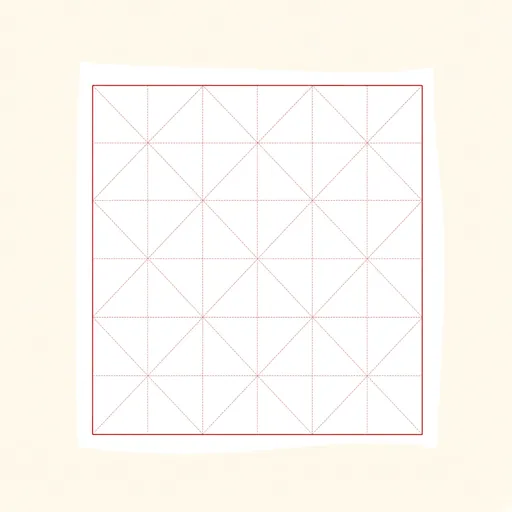
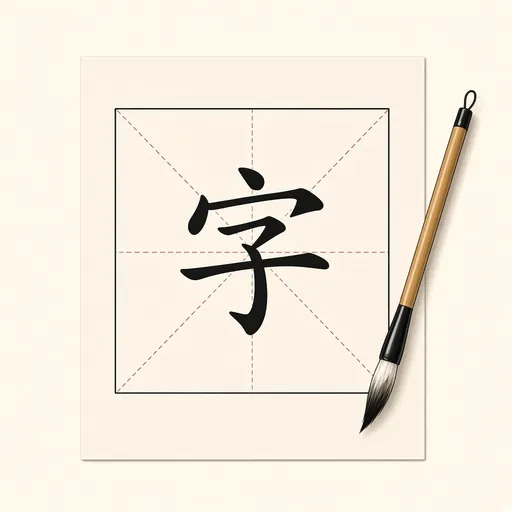
Book 0 art: 米 = rice bowl (lessons/book0/art/mi-rice.webp, L04/L09), new 字 grid picture; bump sw art cache v7

diff --git a/chinese-class-web/sw.js b/chinese-class-web/sw.js
@@ -5,8 +5,8 @@
    • เสียง mp3: แคชตอนเล่น (เก็บล่าสุด RT_MAX ไฟล์) + แพ็กที่ผู้ใช้กดดาวน์โหลด (lama-dl-v1 ไม่ลบเอง) · ตอบ Range เป็น 206 ให้ Safari
    • ข้อมูลลำดับขีด/hanzi-writer/รูป webp/ฟอนต์จีน: แคชเมื่อใช้ (cache-first)
    • activate: ลบแคช shell เวอร์ชันเก่า */
-/*shell*/const V='e03ff9a4f3',SHELL=["index.html","manifest.webmanifest","favicon.ico","sync-config.js?v=e03ff9a4f3","sync-merge.js?v=e03ff9a4f3","sync-supabase.js?v=e03ff9a4f3","sync.js?v=e03ff9a4f3","nozoom.js?v=e03ff9a4f3","fonts/fonts.css?v=e03ff9a4f3","style.css?v=e03ff9a4f3","style2.css?v=e03ff9a4f3","stroke.css?v=e03ff9a4f3","home.css?v=e03ff9a4f3","hub.css?v=e03ff9a4f3","align.css?v=e03ff9a4f3","nb-save.css?v=e03ff9a4f3","nb-page.css?v=e03ff9a4f3","nb-cover.css?v=e03ff9a4f3","piclearn.css?v=e03ff9a4f3","pinroom.css?v=e03ff9a4f3","rad.css?v=e03ff9a4f3","l1.css?v=e03ff9a4f3","book.css?v=e03ff9a4f3","bookquiz.css?v=e03ff9a4f3","fx2.css?v=e03ff9a4f3","nav6.css?v=e03ff9a4f3","ipad.css?v=e03ff9a4f3","shelf.css?v=e03ff9a4f3","config.js?v=e03ff9a4f3","data/common.js?v=e03ff9a4f3","data/hsk1.js?v=e03ff9a4f3","data/hsk2.js?v=e03ff9a4f3","data/hsk2x.js?v=e03ff9a4f3","data/hsk3.js?v=e03ff9a4f3","data/hsk4.js?v=e03ff9a4f3","data/hsk5.js?v=e03ff9a4f3","data/place.js?v=e03ff9a4f3","data/labs.js?v=e03ff9a4f3","audio-index.js?v=e03ff9a4f3","data.js?v=e03ff9a4f3","core.js?v=e03ff9a4f3","fx.js?v=e03ff9a4f3","piclearn.js?v=e03ff9a4f3","learn.js?v=e03ff9a4f3","games.js?v=e03ff9a4f3","social.js?v=e03ff9a4f3","extra.js?v=e03ff9a4f3","engage.js?v=e03ff9a4f3","cards.js?v=e03ff9a4f3","onboard.js?v=e03ff9a4f3","levels.js?v=e03ff9a4f3","tutor.js?v=e03ff9a4f3","league.js?v=e03ff9a4f3","badges.js?v=e03ff9a4f3","formats.js?v=e03ff9a4f3","weekly.js?v=e03ff9a4f3","buddy2.js?v=e03ff9a4f3","tonelab.js?v=e03ff9a4f3","labs.js?v=e03ff9a4f3","data/stroke/index.js?v=e03ff9a4f3","stroke.js?v=e03ff9a4f3","assets/art/index.js?v=e03ff9a4f3","data/rad/rad.js?v=e03ff9a4f3","data/rad/pic.js?v=e03ff9a4f3","rad.js?v=e03ff9a4f3","radgame.js?v=e03ff9a4f3","radcol.js?v=e03ff9a4f3","data/pinyin/syllables.js?v=e03ff9a4f3","pinroom.js?v=e03ff9a4f3","backup.js?v=e03ff9a4f3","offline-index.js?v=e03ff9a4f3","offline.js?v=e03ff9a4f3","home.js?v=e03ff9a4f3","know.js?v=e03ff9a4f3","data/hub.js?v=e03ff9a4f3","hub.js?v=e03ff9a4f3","data/align.js?v=e03ff9a4f3","align.js?v=e03ff9a4f3","notebook-data.js?v=e03ff9a4f3","notebook-page.js?v=e03ff9a4f3","nb-cover.js?v=e03ff9a4f3","mw.js?v=e03ff9a4f3","l1.js?v=e03ff9a4f3","data/book1.js?v=e03ff9a4f3","data/book1-tracks.js?v=e03ff9a4f3","data/book1-audio.js?v=e03ff9a4f3","book.js?v=e03ff9a4f3","data/book1-quiz.js?v=e03ff9a4f3","bookquiz.js?v=e03ff9a4f3","deeplink.js?v=e03ff9a4f3","fx2.js?v=e03ff9a4f3","shelf.js?v=e03ff9a4f3","nav6.js?v=e03ff9a4f3","ipad.js?v=e03ff9a4f3","assets/icons/apple-touch-icon.png","assets/icons/favicon-64.png","assets/icons/icon-192.png","assets/icons/icon-512.png","assets/icons/stk-zi.svg","fonts/UcC73FwrK3iLTeHuS_nVMrMxCp50SjIa0ZL7SUc.woff2","fonts/UcC73FwrK3iLTeHuS_nVMrMxCp50SjIa1ZL7.woff2","fonts/UcC73FwrK3iLTeHuS_nVMrMxCp50SjIa1pL7SUc.woff2","fonts/UcC73FwrK3iLTeHuS_nVMrMxCp50SjIa25L7SUc.woff2","fonts/UcC73FwrK3iLTeHuS_nVMrMxCp50SjIa2JL7SUc.woff2","fonts/UcC73FwrK3iLTeHuS_nVMrMxCp50SjIa2ZL7SUc.woff2","fonts/UcC73FwrK3iLTeHuS_nVMrMxCp50SjIa2pL7SUc.woff2","fonts/m8JMje1VVIzcq1HzJq2AEdo2Tj_qvLqE-vU1Z-JHa74.woff2","fonts/m8JMje1VVIzcq1HzJq2AEdo2Tj_qvLqE-vU1ZOJHa74.woff2","fonts/m8JMje1VVIzcq1HzJq2AEdo2Tj_qvLqE-vU1auJH.woff2","fonts/m8JMje1VVIzcq1HzJq2AEdo2Tj_qvLqE-vU1fuJHa74.woff2","fonts/m8JMje1VVIzcq1HzJq2AEdo2Tj_qvLqE1vI1Z-JHa74.woff2","fonts/m8JMje1VVIzcq1HzJq2AEdo2Tj_qvLqE1vI1ZOJHa74.woff2","fonts/m8JMje1VVIzcq1HzJq2AEdo2Tj_qvLqE1vI1auJH.woff2","fonts/m8JMje1VVIzcq1HzJq2AEdo2Tj_qvLqE1vI1fuJHa74.woff2","fonts/m8JMje1VVIzcq1HzJq2AEdo2Tj_qvLqEsvM1Z-JHa74.woff2","fonts/m8JMje1VVIzcq1HzJq2AEdo2Tj_qvLqEsvM1ZOJHa74.woff2","fonts/m8JMje1VVIzcq1HzJq2AEdo2Tj_qvLqEsvM1auJH.woff2","fonts/m8JMje1VVIzcq1HzJq2AEdo2Tj_qvLqEsvM1fuJHa74.woff2","fonts/m8JPje1VVIzcq1HzJq2AEdo2Tj_qvLqMB9YgVcM.woff2","fonts/m8JPje1VVIzcq1HzJq2AEdo2Tj_qvLqMBNYgVcM.woff2","fonts/m8JPje1VVIzcq1HzJq2AEdo2Tj_qvLqMCdYg.woff2","fonts/m8JPje1VVIzcq1HzJq2AEdo2Tj_qvLqMHdYgVcM.woff2","fonts/sriracha-thai.woff2","assets/mascot/boss.webp","assets/mascot/bow.webp","assets/mascot/brush.webp","assets/mascot/buddy.webp","assets/mascot/celebrate.webp","assets/mascot/cheer.webp","assets/mascot/chest.webp","assets/mascot/correct.webp","assets/mascot/duel.webp","assets/mascot/empty.webp","assets/mascot/gift.webp","assets/mascot/jump.webp","assets/mascot/lantern.webp","assets/mascot/levelup.webp","assets/mascot/listening.webp","assets/mascot/locked.webp","assets/mascot/notfound.webp","assets/mascot/plum.webp","assets/mascot/read.webp","assets/mascot/shock.webp","assets/mascot/sleepy.webp","assets/mascot/speaking.webp","assets/mascot/story.webp","assets/mascot/streak.webp","assets/mascot/streaklost.webp","assets/mascot/student.webp","assets/mascot/tea.webp","assets/mascot/teach.webp","assets/mascot/teacher.webp","assets/mascot/think.webp","assets/mascot/thumbs.webp","assets/mascot/timer.webp","assets/mascot/tired.webp","assets/mascot/travel.webp","assets/mascot/trophy.webp","assets/mascot/wave.webp","assets/mascot/write.webp","assets/mascot/wrong.webp","assets/friends/s01.webp","assets/friends/s03.webp","assets/friends/s04.webp","assets/friends/s05.webp","assets/friends/s06.webp","assets/friends/s07.webp","assets/art/books/b0.webp","assets/art/books/b1.webp","assets/art/books/b2.webp","assets/art/books/b3.webp","assets/art/books/b4.webp","assets/art/books/b5.webp","vendor/hanzi-writer.min.js"];
-const SH='lama-shell-'+V,STK='lama-stk-v1',ART='lama-art-v6',FONT='lama-font-v1',RT='lama-audio-rt-v1',DL='lama-dl-v1',RT_MAX=400;
+/*shell*/const V='e03ff9a4f3',SHELL=["index.html","manifest.webmanifest","favicon.ico","sync-config.js?v=e03ff9a4f3","sync-merge.js?v=e03ff9a4f3","sync-supabase.js?v=e03ff9a4f3","sync.js?v=e03ff9a4f3","nozoom.js?v=e03ff9a4f3","fonts/fonts.css?v=e03ff9a4f3","style.css?v=e03ff9a4f3","style2.css?v=e03ff9a4f3","stroke.css?v=e03ff9a4f3","home.css?v=e03ff9a4f3","hub.css?v=e03ff9a4f3","align.css?v=e03ff9a4f3","nb-save.css?v=e03ff9a4f3","nb-page.css?v=e03ff9a4f3","nb-cover.css?v=e03ff9a4f3","piclearn.css?v=e03ff9a4f3","pinroom.css?v=e03ff9a4f3","rad.css?v=e03ff9a4f3","l1.css?v=e03ff9a4f3","book.css?v=e03ff9a4f3","bookquiz.css?v=e03ff9a4f3","fx2.css?v=e03ff9a4f3","nav6.css?v=e03ff9a4f3","ipad.css?v=e03ff9a4f3","shelf.css?v=e03ff9a4f3","config.js?v=e03ff9a4f3","data/common.js?v=e03ff9a4f3","data/hsk1.js?v=e03ff9a4f3","data/hsk2.js?v=e03ff9a4f3","data/hsk2x.js?v=e03ff9a4f3","data/hsk3.js?v=e03ff9a4f3","data/hsk4.js?v=e03ff9a4f3","data/hsk5.js?v=e03ff9a4f3","data/place.js?v=e03ff9a4f3","data/labs.js?v=e03ff9a4f3","audio-index.js?v=e03ff9a4f3","data.js?v=e03ff9a4f3","core.js?v=e03ff9a4f3","fx.js?v=e03ff9a4f3","piclearn.js?v=e03ff9a4f3","learn.js?v=e03ff9a4f3","games.js?v=e03ff9a4f3","social.js?v=e03ff9a4f3","extra.js?v=e03ff9a4f3","engage.js?v=e03ff9a4f3","cards.js?v=e03ff9a4f3","onboard.js?v=e03ff9a4f3","levels.js?v=e03ff9a4f3","tutor.js?v=e03ff9a4f3","league.js?v=e03ff9a4f3","badges.js?v=e03ff9a4f3","formats.js?v=e03ff9a4f3","weekly.js?v=e03ff9a4f3","buddy2.js?v=e03ff9a4f3","tonelab.js?v=e03ff9a4f3","labs.js?v=e03ff9a4f3","data/stroke/index.js?v=e03ff9a4f3","stroke.js?v=e03ff9a4f3","assets/art/index.js?v=e03ff9a4f3","data/rad/rad.js?v=e03ff9a4f3","data/rad/pic.js?v=e03ff9a4f3","rad.js?v=e03ff9a4f3","radgame.js?v=e03ff9a4f3","radcol.js?v=e03ff9a4f3","data/pinyin/syllables.js?v=e03ff9a4f3","pinroom.js?v=e03ff9a4f3","backup.js?v=e03ff9a4f3","offline-index.js?v=e03ff9a4f3","offline.js?v=e03ff9a4f3","home.js?v=e03ff9a4f3","know.js?v=e03ff9a4f3","data/hub.js?v=e03ff9a4f3","hub.js?v=e03ff9a4f3","data/align.js?v=e03ff9a4f3","align.js?v=e03ff9a4f3","notebook-data.js?v=e03ff9a4f3","notebook-page.js?v=e03ff9a4f3","nb-cover.js?v=e03ff9a4f3","mw.js?v=e03ff9a4f3","l1.js?v=e03ff9a4f3","data/book1.js?v=e03ff9a4f3","data/book1-tracks.js?v=e03ff9a4f3","data/book1-audio.js?v=e03ff9a4f3","book.js?v=e03ff9a4f3","data/book1-quiz.js?v=e03ff9a4f3","bookquiz.js?v=e03ff9a4f3","deeplink.js?v=e03ff9a4f3","fx2.js?v=e03ff9a4f3","shelf.js?v=e03ff9a4f3","nav6.js?v=e03ff9a4f3","ipad.js?v=e03ff9a4f3","assets/icons/apple-touch-icon.png","assets/icons/favicon-64.png","assets/icons/icon-192.png","assets/icons/icon-512.png","assets/icons/stk-zi.svg","fonts/UcC73FwrK3iLTeHuS_nVMrMxCp50SjIa0ZL7SUc.woff2","fonts/UcC73FwrK3iLTeHuS_nVMrMxCp50SjIa1ZL7.woff2","fonts/UcC73FwrK3iLTeHuS_nVMrMxCp50SjIa1pL7SUc.woff2","fonts/UcC73FwrK3iLTeHuS_nVMrMxCp50SjIa25L7SUc.woff2","fonts/UcC73FwrK3iLTeHuS_nVMrMxCp50SjIa2JL7SUc.woff2","fonts/UcC73FwrK3iLTeHuS_nVMrMxCp50SjIa2ZL7SUc.woff2","fonts/UcC73FwrK3iLTeHuS_nVMrMxCp50SjIa2pL7SUc.woff2","fonts/m8JMje1VVIzcq1HzJq2AEdo2Tj_qvLqE-vU1Z-JHa74.woff2","fonts/m8JMje1VVIzcq1HzJq2AEdo2Tj_qvLqE-vU1ZOJHa74.woff2","fonts/m8JMje1VVIzcq1HzJq2AEdo2Tj_qvLqE-vU1auJH.woff2","fonts/m8JMje1VVIzcq1HzJq2AEdo2Tj_qvLqE-vU1fuJHa74.woff2","fonts/m8JMje1VVIzcq1HzJq2AEdo2Tj_qvLqE1vI1Z-JHa74.woff2","fonts/m8JMje1VVIzcq1HzJq2AEdo2Tj_qvLqE1vI1ZOJHa74.woff2","fonts/m8JMje1VVIzcq1HzJq2AEdo2Tj_qvLqE1vI1auJH.woff2","fonts/m8JMje1VVIzcq1HzJq2AEdo2Tj_qvLqE1vI1fuJHa74.woff2","fonts/m8JMje1VVIzcq1HzJq2AEdo2Tj_qvLqEsvM1Z-JHa74.woff2","fonts/m8JMje1VVIzcq1HzJq2AEdo2Tj_qvLqEsvM1ZOJHa74.woff2","fonts/m8JMje1VVIzcq1HzJq2AEdo2Tj_qvLqEsvM1auJH.woff2","fonts/m8JMje1VVIzcq1HzJq2AEdo2Tj_qvLqEsvM1fuJHa74.woff2","fonts/m8JPje1VVIzcq1HzJq2AEdo2Tj_qvLqMB9YgVcM.woff2","fonts/m8JPje1VVIzcq1HzJq2AEdo2Tj_qvLqMBNYgVcM.woff2","fonts/m8JPje1VVIzcq1HzJq2AEdo2Tj_qvLqMCdYg.woff2","fonts/m8JPje1VVIzcq1HzJq2AEdo2Tj_qvLqMHdYgVcM.woff2","fonts/sriracha-thai.woff2","assets/mascot/boss.webp","assets/mascot/bow.webp","assets/mascot/brush.webp","assets/mascot/buddy.webp","assets/mascot/celebrate.webp","assets/mascot/cheer.webp","assets/mascot/chest.webp","assets/mascot/correct.webp","assets/mascot/duel.webp","assets/mascot/empty.webp","assets/mascot/gift.webp","assets/mascot/jump.webp","assets/mascot/lantern.webp","assets/mascot/levelup.webp","assets/mascot/listening.webp","assets/mascot/locked.webp","assets/mascot/notfound.webp","assets/mascot/plum.webp","assets/mascot/read.webp","assets/mascot/shock.webp","assets/mascot/sleepy.webp","assets/mascot/speaking.webp","assets/mascot/story.webp","assets/mascot/streak.webp","assets/mascot/streaklost.webp","assets/mascot/student.webp","assets/mascot/tea.webp","assets/mascot/teach.webp","assets/mascot/teacher.webp","assets/mascot/think.webp","assets/mascot/thumbs.webp","assets/mascot/timer.webp","assets/mascot/tired.webp","assets/mascot/travel.webp","assets/mascot/trophy.webp","assets/mascot/wave.webp","assets/mascot/write.webp","assets/mascot/wrong.webp","assets/friends/s01.webp","assets/friends/s03.webp","assets/friends/s04.webp","assets/friends/s05.webp","assets/friends/s06.webp","assets/friends/s07.webp","assets/art/books/b0.webp","assets/art/books/b1.webp","assets/art/books/b2.webp","assets/art/books/b3.webp","assets/art/books/b4.webp","assets/art/books/b5.webp","assets/art/word/对不起.webp","assets/art/word/喂.webp","assets/art/word/再见.webp","assets/art/word/狗.webp","assets/art/word/老师.webp","assets/art/word/妈妈.webp","assets/art/word/包子.webp","assets/art/word/杯子.webp","assets/art/word/书店.webp","assets/art/word/火车.webp","assets/art/word/医院.webp","assets/art/word/起床.webp","assets/art/word/打电话.webp","assets/art/word/写.webp","assets/art/word/下雨.webp","vendor/hanzi-writer.min.js"];
+const SH='lama-shell-'+V,STK='lama-stk-v1',ART='lama-art-v7',FONT='lama-font-v1',RT='lama-audio-rt-v1',DL='lama-dl-v1',RT_MAX=400;
 self.addEventListener('install',e=>{e.waitUntil(caches.open(SH).then(c=>c.addAll(SHELL.map(u=>new Request(u,{cache:'reload'})))).then(()=>self.skipWaiting()))});
 self.addEventListener('activate',e=>{e.waitUntil(caches.keys().then(ks=>Promise.all(ks.filter(k=>(k.startsWith('lama-shell-')&&k!==SH)||(k.startsWith('lama-stk-')&&k!==STK)||(k.startsWith('lama-art-')&&k!==ART)).map(k=>caches.delete(k)))).then(()=>self.clients.claim()))});
 const inDL=r=>caches.open(DL).then(c=>c.match(r,{ignoreSearch:true}));

diff --git a/chinese-class-web/lessons/book0/L09.html b/chinese-class-web/lessons/book0/L09.html
@@ -7,7 +7,7 @@
 <title>เหล่าซือลามา · บท 0-9</title>
 </head><body>
 <script>
-const MA=w('马','mǎ','ม้า'),MI=w('米','mǐ','ข้าวสาร'),GG=w('哥哥','gēge','พี่ชาย'),LV=w('绿','lǜ','สีเขียว'),QI=w('七','qī','เจ็ด'),XX=w('谢谢','xièxie','ขอบคุณ'),LS=w('老师','lǎoshī','ครู');
+const MA=w('马','mǎ','ม้า'),MI=w('米','mǐ','ข้าวสาร',{img:'art/mi-rice.webp'}),GG=w('哥哥','gēge','พี่ชาย'),LV=w('绿','lǜ','สีเขียว'),QI=w('七','qī','เจ็ด'),XX=w('谢谢','xièxie','ขอบคุณ'),LS=w('老师','lǎoshī','ครู');
 const T=['พยัญชนะ','สระ','วรรณยุกต์'];
 LESSON({no:9,goal:{do:'อ่าน <span class="gz">谢谢老师</span> ได้',sub:'ต่อ พยัญชนะ + สระ + วรรณยุกต์ เป็นพยางค์',min:6},steps:[
  hook({q:'m + a + เสียง 3<br>ฟังแล้วเลือก เสียงใดถูกต้อง',show:partsH(['m','a',3]),cards:['ma3','ma1'],ans:0,fb:'m + a + เสียง 3 = <b class="t3">mǎ</b> <span class="zh">马</span> = ม้า'}),

diff --git a/chinese-class-web/lessons/book0/L04.html b/chinese-class-web/lessons/book0/L04.html
@@ -7,7 +7,7 @@
 <title>เหล่าซือลามา · บท 0-4</title>
 </head><body>
 <script>
-const MI=w('米','mǐ','ข้าวสาร'),TU=w('兔子','tùzi','กระต่าย'),NV=w('女孩','nǚhái','เด็กผู้หญิง'),LV=w('绿','lǜ','สีเขียว');
+const MI=w('米','mǐ','ข้าวสาร',{img:'art/mi-rice.webp'}),TU=w('兔子','tùzi','กระต่าย'),NV=w('女孩','nǚhái','เด็กผู้หญิง'),LV=w('绿','lǜ','สีเขียว');
 const MC=(list)=>`<div class="mcards3">${list.map(([m,l,k,s])=>`<button class="press" data-play="${k}">${mouth(m,'',84)}<span class="py">${l}</span><small>${s}</small></button>`).join('')}</div>`;
 LESSON({no:4,goal:{do:'อ่าน <span class="gz">女孩和兔子</span> ได้',sub:'สระ i u ü และวิธีทำเสียง ü',min:5},steps:[
  hook({q:'ฟัง 2 เสียงนี้<br>เสียงใดแปลว่า "กระต่าย"',pic:TU,cards:[MI.k,TU.k],ans:1,fb:'เสียง A คือ <b>mǐ</b> <span class="zh">米</span> = ข้าวสาร · เสียง B คือ <b>tùzi</b> <span class="zh">兔子</span> = กระต่าย'}),

diff --git a/chinese-class-web/proto/book0-v4/L09.html b/chinese-class-web/proto/book0-v4/L09.html
@@ -7,7 +7,7 @@
 <title>ต้นแบบ · บท 0-9</title>
 </head><body>
 <script>
-const MA=w('马','mǎ','ม้า'),MI=w('米','mǐ','ข้าวสาร'),GG=w('哥哥','gēge','พี่ชาย'),LV=w('绿','lǜ','สีเขียว'),QI=w('七','qī','เจ็ด'),XX=w('谢谢','xièxie','ขอบคุณ'),LS=w('老师','lǎoshī','ครู');
+const MA=w('马','mǎ','ม้า'),MI=w('米','mǐ','ข้าวสาร',{img:'art/mi-rice.webp'}),GG=w('哥哥','gēge','พี่ชาย'),LV=w('绿','lǜ','สีเขียว'),QI=w('七','qī','เจ็ด'),XX=w('谢谢','xièxie','ขอบคุณ'),LS=w('老师','lǎoshī','ครู');
 const T=['พยัญชนะ','สระ','วรรณยุกต์'];
 LESSON({no:9,goal:{do:'อ่าน <span class="gz">谢谢老师</span> ได้',sub:'ต่อ พยัญชนะ + สระ + วรรณยุกต์ เป็นพยางค์',min:6},steps:[
  hook({q:'m + a + เสียง 3<br>ฟังแล้วเลือก เสียงใดถูกต้อง',show:partsH(['m','a',3]),cards:['ma3','ma1'],ans:0,fb:'m + a + เสียง 3 = <b class="t3">mǎ</b> <span class="zh">马</span> = ม้า'}),

diff --git a/chinese-class-web/proto/book0-v4/L04.html b/chinese-class-web/proto/book0-v4/L04.html
@@ -7,7 +7,7 @@
 <title>ต้นแบบ · บท 0-4</title>
 </head><body>
 <script>
-const MI=w('米','mǐ','ข้าวสาร'),TU=w('兔子','tùzi','กระต่าย'),NV=w('女孩','nǚhái','เด็กผู้หญิง'),LV=w('绿','lǜ','สีเขียว');
+const MI=w('米','mǐ','ข้าวสาร',{img:'art/mi-rice.webp'}),TU=w('兔子','tùzi','กระต่าย'),NV=w('女孩','nǚhái','เด็กผู้หญิง'),LV=w('绿','lǜ','สีเขียว');
 const MC=(list)=>`<div class="mcards3">${list.map(([m,l,k,s])=>`<button class="press" data-play="${k}">${mouth(m,'',84)}<span class="py">${l}</span><small>${s}</small></button>`).join('')}</div>`;
 LESSON({no:4,goal:{do:'อ่าน <span class="gz">女孩和兔子</span> ได้',sub:'สระ i u ü และวิธีทำเสียง ü',min:5},steps:[
  hook({q:'ฟัง 2 เสียงนี้<br>เสียงใดแปลว่า "กระต่าย"',pic:TU,cards:[MI.k,TU.k],ans:1,fb:'เสียง A คือ <b>mǐ</b> <span class="zh">米</span> = ข้าวสาร · เสียง B คือ <b>tùzi</b> <span class="zh">兔子</span> = กระต่าย'}),
